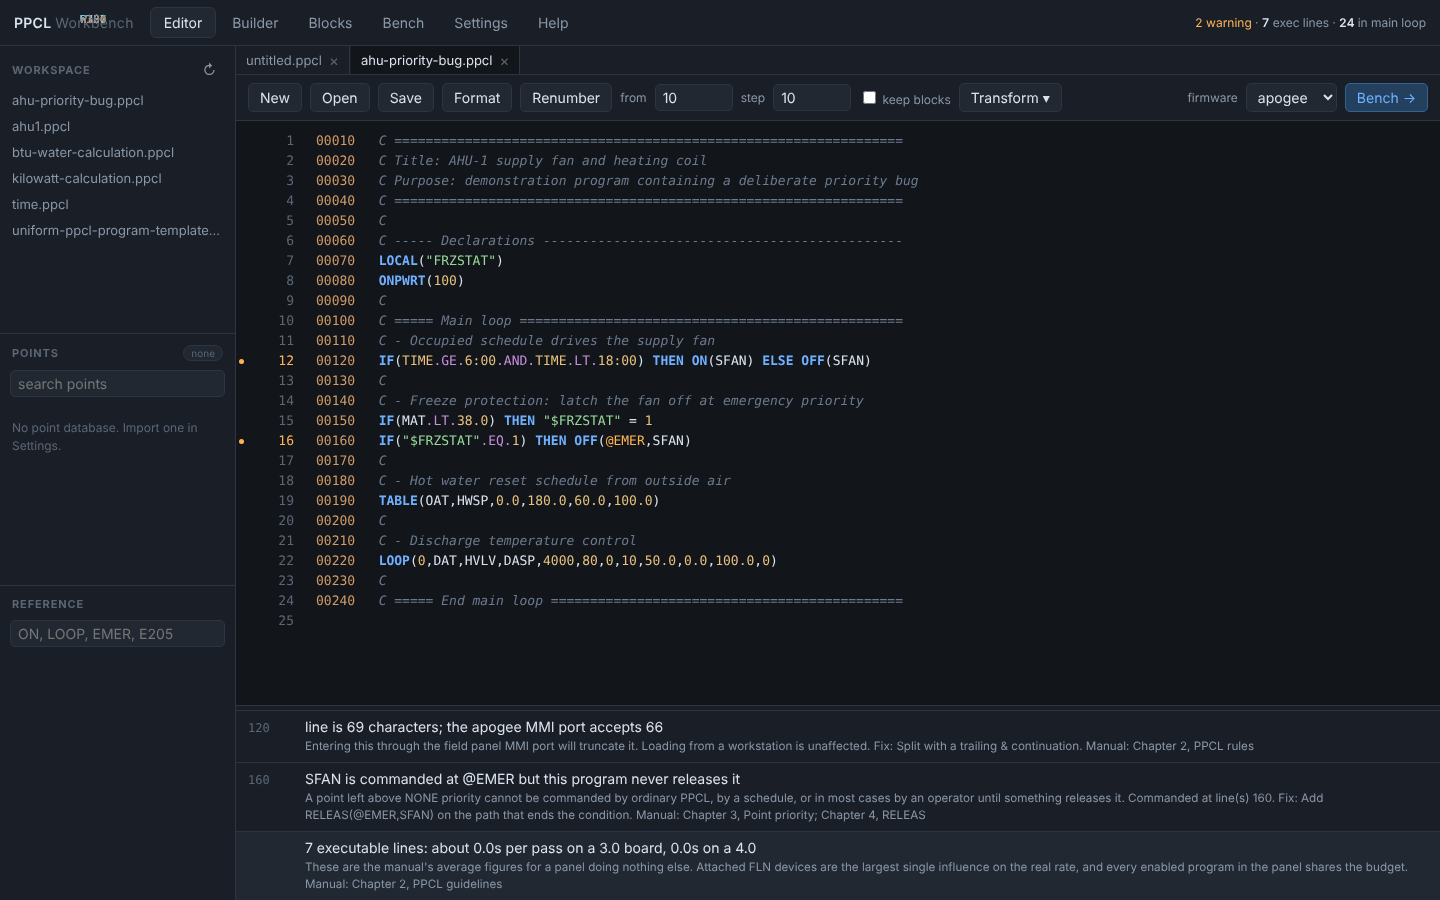
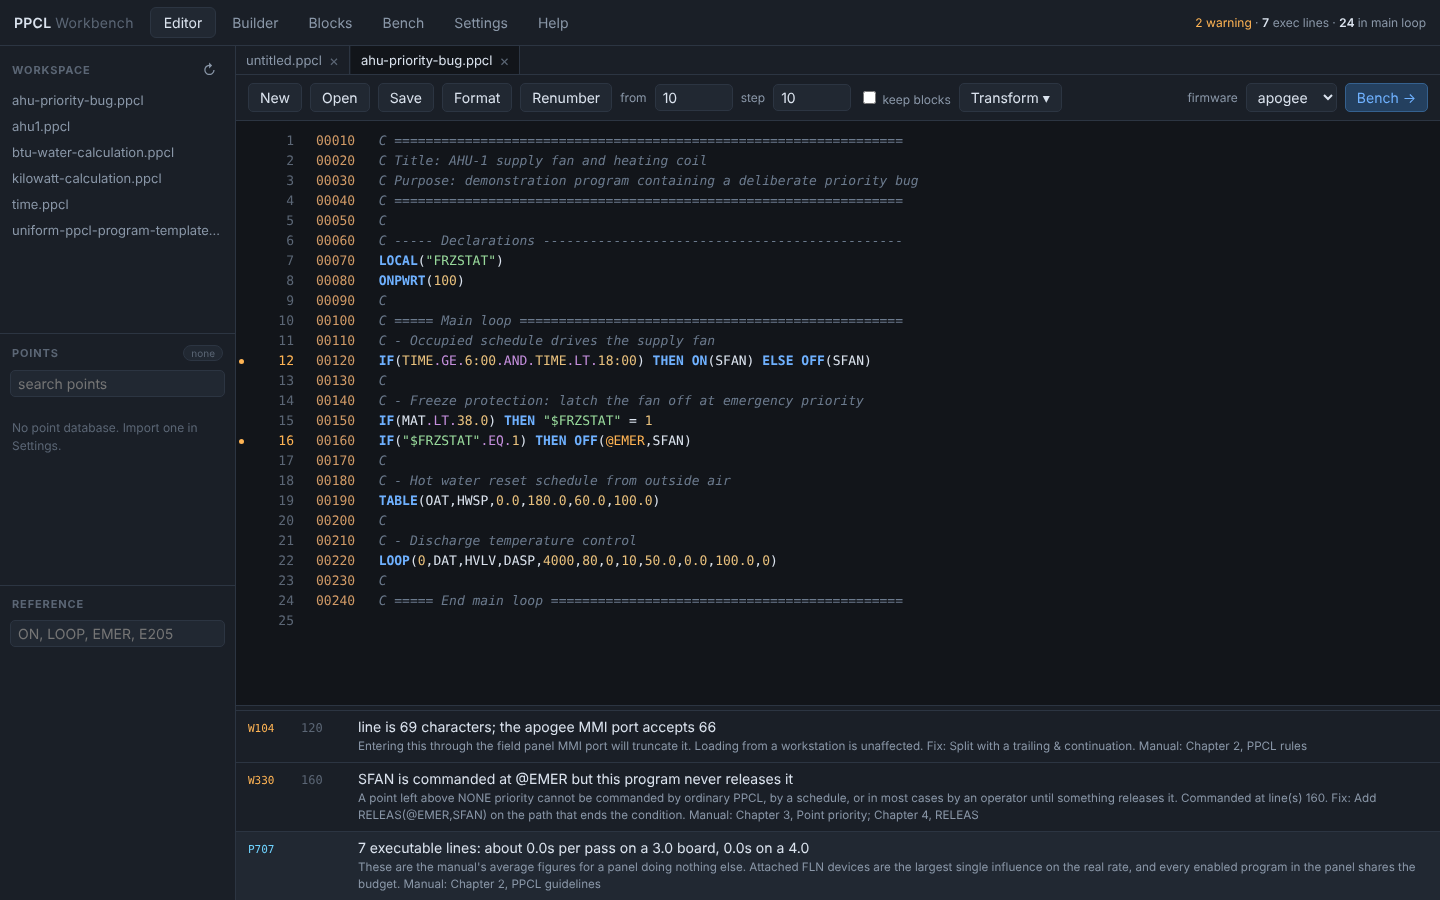
Fix: rule codes in the findings list landed at the top-left of the window
The findings list's rule code is a <span class="code">, and .code is also the
editor textarea's class: position absolute at left 66px, top 0, padded, full
width. `.diag .code` reset the font, color and width but not the position,
so every finding's code (W104, W330, ...) was drawn stacked over the
"Workbench" title instead of in its 44px column beside the finding.

`.diag .code` now undoes the textarea's position, padding, overflow and
white-space. The README screenshots are retaken with the codes where they
belong.

Claude-Session: https://claude.ai/code/session_01YATR2g96X4cZxnQjaeCurQ

Changed region(s): [[0.2188, 0.7778, 0.9375, 0.9956], [0.6875, 0.9333, 0.7188, 0.9644], [0.1562, 0.84, 0.1875, 0.8711]]

diff --git a/ppcl/web/static/css/base.css b/ppcl/web/static/css/base.css
@@ -375,7 +375,13 @@ button.icon:hover { color: var(--accent); border-color: var(--line); }
   display: flex; gap: 9px; align-items: baseline;
 }
 .diag:hover { background: var(--panel-2); }
-.diag .code { font-size: 11px; color: var(--faint); width: 44px; flex: 0 0 auto; }
+/* The findings list's rule code shares the class name of the editor's textarea
+   (.code: absolute, padded, full width), so it has to undo all of that, or every
+   code lands at the top-left of the window instead of beside its finding. */
+.diag .code {
+  position: static; padding: 0; overflow: visible; white-space: nowrap; line-height: inherit;
+  font-size: 11px; color: var(--faint); width: 44px; flex: 0 0 auto;
+}
 .diag .ln {
   color: var(--faint); font-family: var(--mono); font-size: 12px;
   width: 48px; flex: 0 0 auto;
